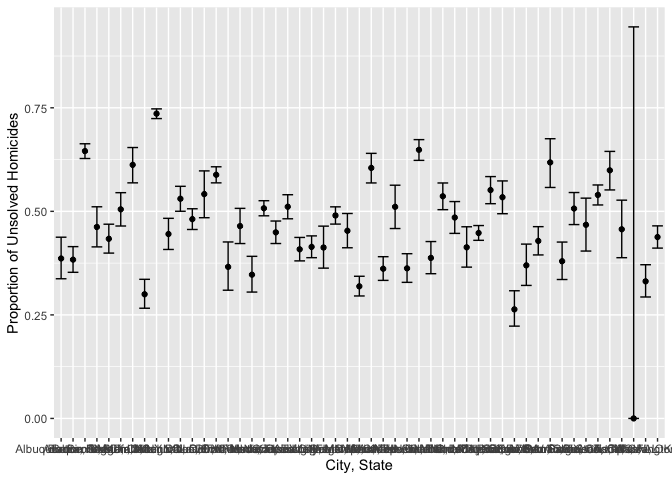
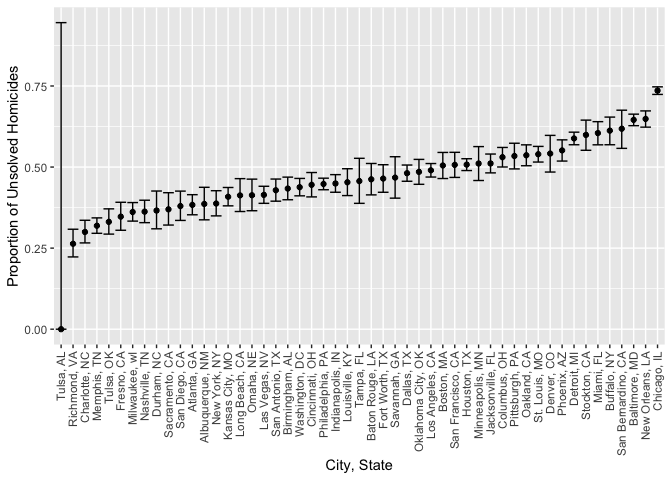
changed x-axis label orientation, reordered estimates

diff --git a/p8105_hw5_si2426.md b/p8105_hw5_si2426.md
@@ -45,20 +45,26 @@ homicide_sum = homicide_summary %>% mutate(
         homicide_summary$unsolved_homicides,
         homicide_summary$total_homicide, prop.test), 
     results = map(prop_test, broom::tidy)
-    )
+    ) %>% unnest(results) %>% select(-c(prop_test, parameter, method, alternative)) %>% mutate(city_state = fct_reorder(city_state, estimate))
 ```
 
     ## Warning in .f(.x[[i]], .y[[i]], ...): Chi-squared approximation may be incorrect
 
 ``` r
-homicide_sum = homicide_sum %>% unnest(results) %>% select(-c(prop_test, parameter, method, alternative))
-
 ggplot(homicide_sum, aes(x = city_state, y = estimate)) + 
-  geom_point() + geom_errorbar(aes(ymin = conf.low, ymax = conf.high)) +
-  labs(x = "City, State", y = "Proportion of Unsolved Homicides")
+  geom_point() + 
+  geom_errorbar(aes(ymin = conf.low, ymax = conf.high)) +
+  labs(x = "City, State", y = "Proportion of Unsolved Homicides") +
+  theme(axis.text.x = element_text(angle = 90, vjust = 0.5, hjust = 1))
 ```
 
 ![](p8105_hw5_si2426_files/figure-gfm/unnamed-chunk-5-1.png)<!-- -->
+
+From the graph above, we note that Tulsa, Alabama has the lowest
+estimated proportion of unsolved homicides at 0 while Chicago, Illinois
+has the higheest estimated proportion proportion of unsolved homicides.
+It is important to note that Tulsa, Alabama only has 1 homicide, which
+was solved, meaning it has no unsolved homicides in this dataset.
 
 ## Problem 3
 
